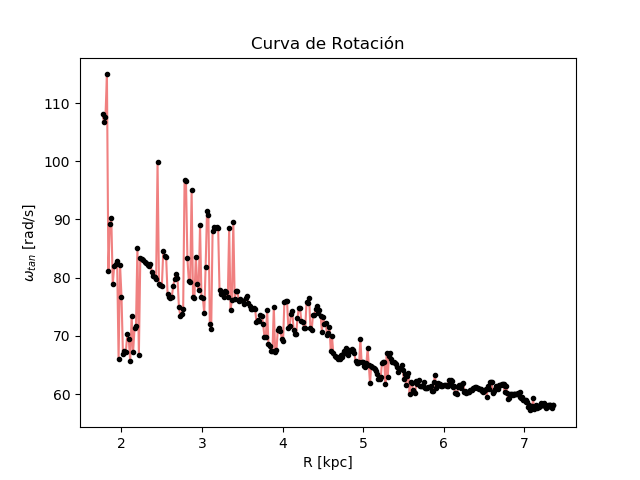
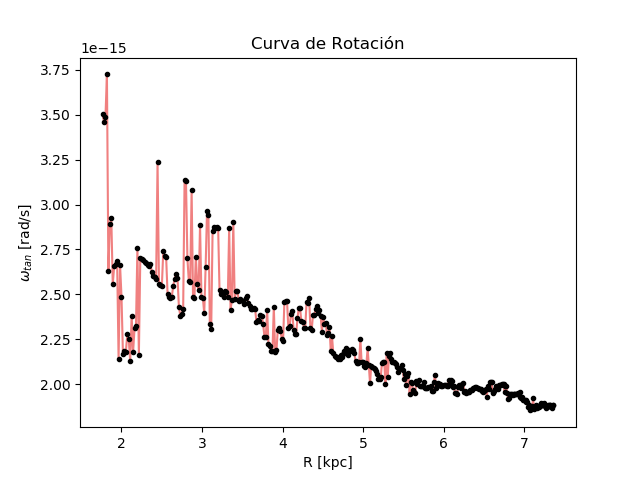
corrige curva de rotación y calcula parámetros ajuste

diff --git a/Tarea 2/códigoT2.py b/Tarea 2/códigoT2.py
@@ -40,12 +40,12 @@ for i_b in range(len(latitud)):
 
 for lat in latitud:
     table_b_fix = tabla.loc[tabla['latitud b'] == lat]
-    min_vel= table_b_fix['v_tan'].min()
+    min_vel = table_b_fix['v_tan'].min()
     # print(lat, min_vel)
 
 for lon in longitud:
     table_b_fix = tabla.loc[tabla['longitud l'] == lon]
-    min_vel= table_b_fix['v_tan'].min()
+    min_vel = table_b_fix['v_tan'].min()
     # print(lon, min_vel)
 
 # Se crea una funcion que para una longitud(l) fija, se recorre latitud(b) y se calcula el rms de las
@@ -68,9 +68,10 @@ vmin = np.zeros(385)
 bvmin = np.zeros(385)
 R = np.zeros(385)
 Z = np.zeros(385)
+R0km = 2.623e+17 # distancia en km
 R0 = 8.5 #kPc
 vsol = 220
-omegasol = vsol/R0
+omegasol = vsol/R0km
 
 #maximorum
 # Se recorren las longitudes y se busca la velocidad más negativa (mayor en modulo), se guarda esta
@@ -90,6 +91,7 @@ for i in range(385):
     bvmin[i]=b1
     R[i]=np.abs(R0*np.sin(longitud[i]*np.pi/180.)) #R0 sin(l)  
     Z[i]= b1*np.pi/180*R0*np.cos(longitud[i]*np.pi/180.)
+    
 
     
 # Se obtiene la Vtan con Vtan = −Vmin − Vsol · sin(lπ/180 ), donde Vmin es la velocidad mayor en
@@ -98,11 +100,16 @@ for i in range(385):
 
 vR = np.zeros(385)
 for i in range(385):
-    vR[i] = vmin[i]*(np.abs(np.sin(longitud[i]*np.pi/180.))/np.sin(longitud[i]*np.pi/180.)) + np.abs(vsol*np.sin(longitud[i]*np.pi/180.))
+    vR[i] = vmin[i]*(np.abs(np.sin(longitud[i]*np.pi/180.))/ \
+            np.sin(longitud[i]*np.pi/180.)) + \
+            np.abs(vsol*np.sin(longitud[i]*np.pi/180.))
 
 omegaR = np.zeros(385)
 for i in range(385):
-    omegaR[i] = vR[i]/R[i] + omegasol
+    # 1 kpc = 3.08567758128E+16 km
+    # 1 km = 3.2408e-17 kpc
+    # 220 km/s = 220
+    omegaR[i] = (vR[i]*3.2408e-17)/R[i] + omegasol
 '''
 CURVA DE ROTACIÓN
 '''
@@ -121,7 +128,7 @@ plt.grid
 plt.title("Curva de Rotación")
 plt.xlabel("R [kpc]")
 plt.ylabel(r"$\omega_{tan}$ [rad/s]")
-# plt.savefig('curva2.png')
+plt.savefig('curva2.png')
 plt.show()
 
 
@@ -160,6 +167,12 @@ m2,covm2 = curve_fit(esfera_uniforme, R, vR)
 m3,covm3 = curve_fit(esfera_uniforme_masapuntual, R, vR)
 m4,covm4 = curve_fit(disco_uniforme, R, vR)
 m5,covm5 = curve_fit(disco_uniforme_masapuntual, R, vR)
+
+print('M0 masa puntual:', m1[0])
+print('rho esfera uniforme:', m2[0])
+print('rho, M0 esfera unirme con masa puntual:', m3)
+print('s disco uniforme:', m4[0])
+print('s, M0 disco uniforme masa puntual:', m5)
 
 fig = plt.figure(figsize= (5, 10))
 ax1 = fig.add_subplot(5,1,1)
@@ -218,3 +231,5 @@ plt.ylabel("Z [kpc]", fontsize='12')
 plt.tick_params(labelsize='12')
 # plt.savefig('corrugacion.png')
 plt.show()
+
+# %%
